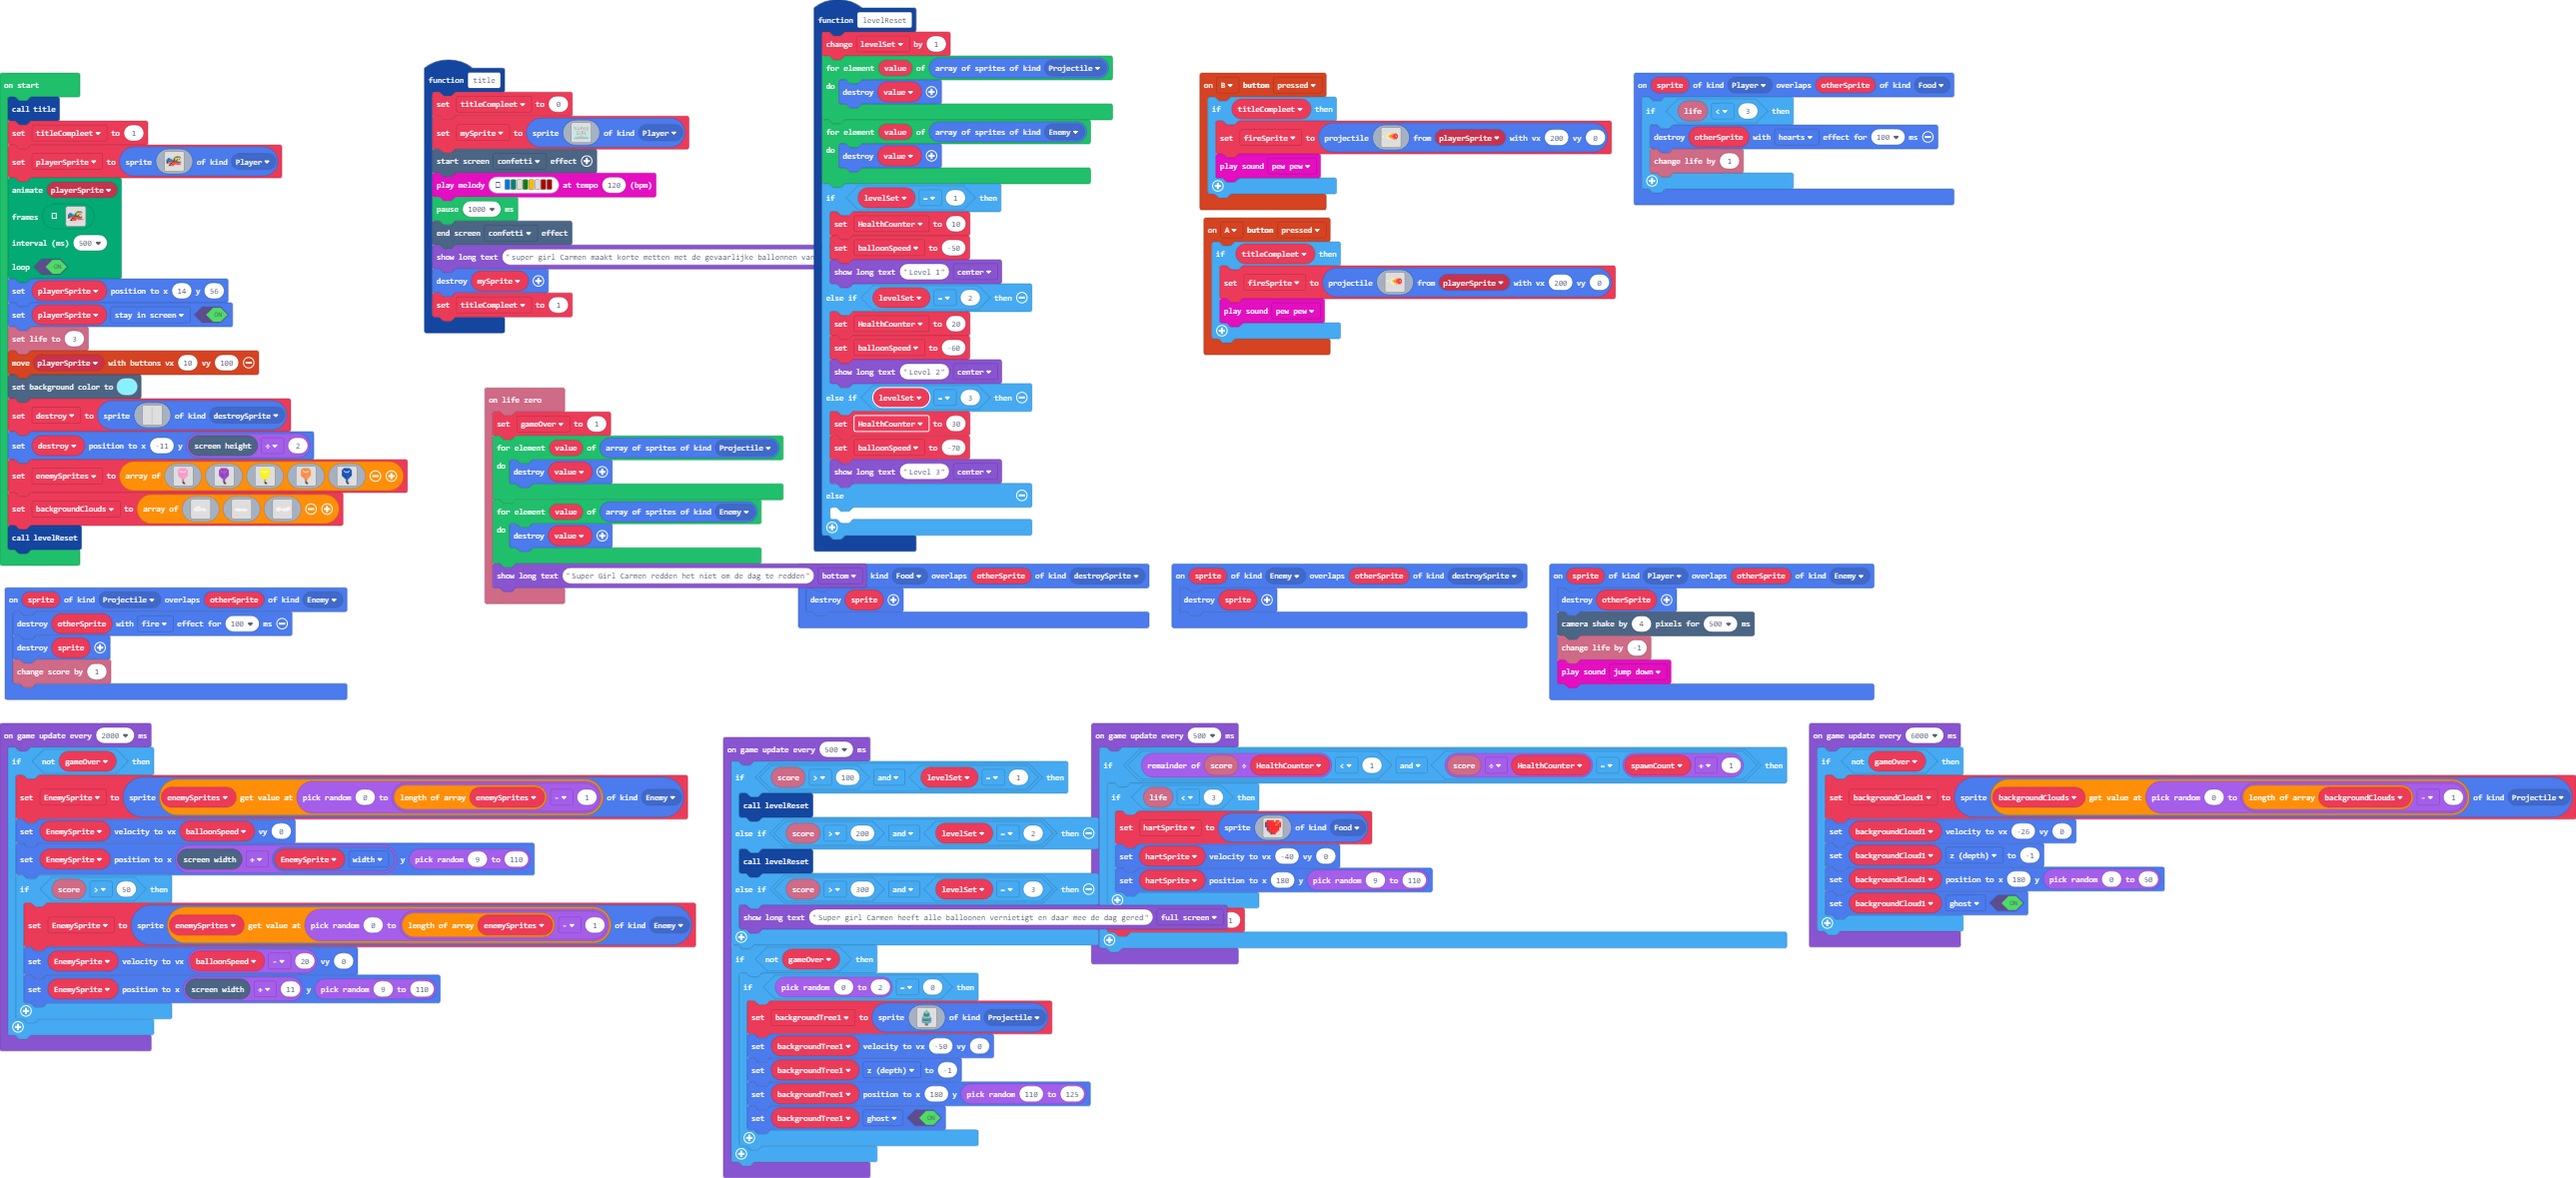
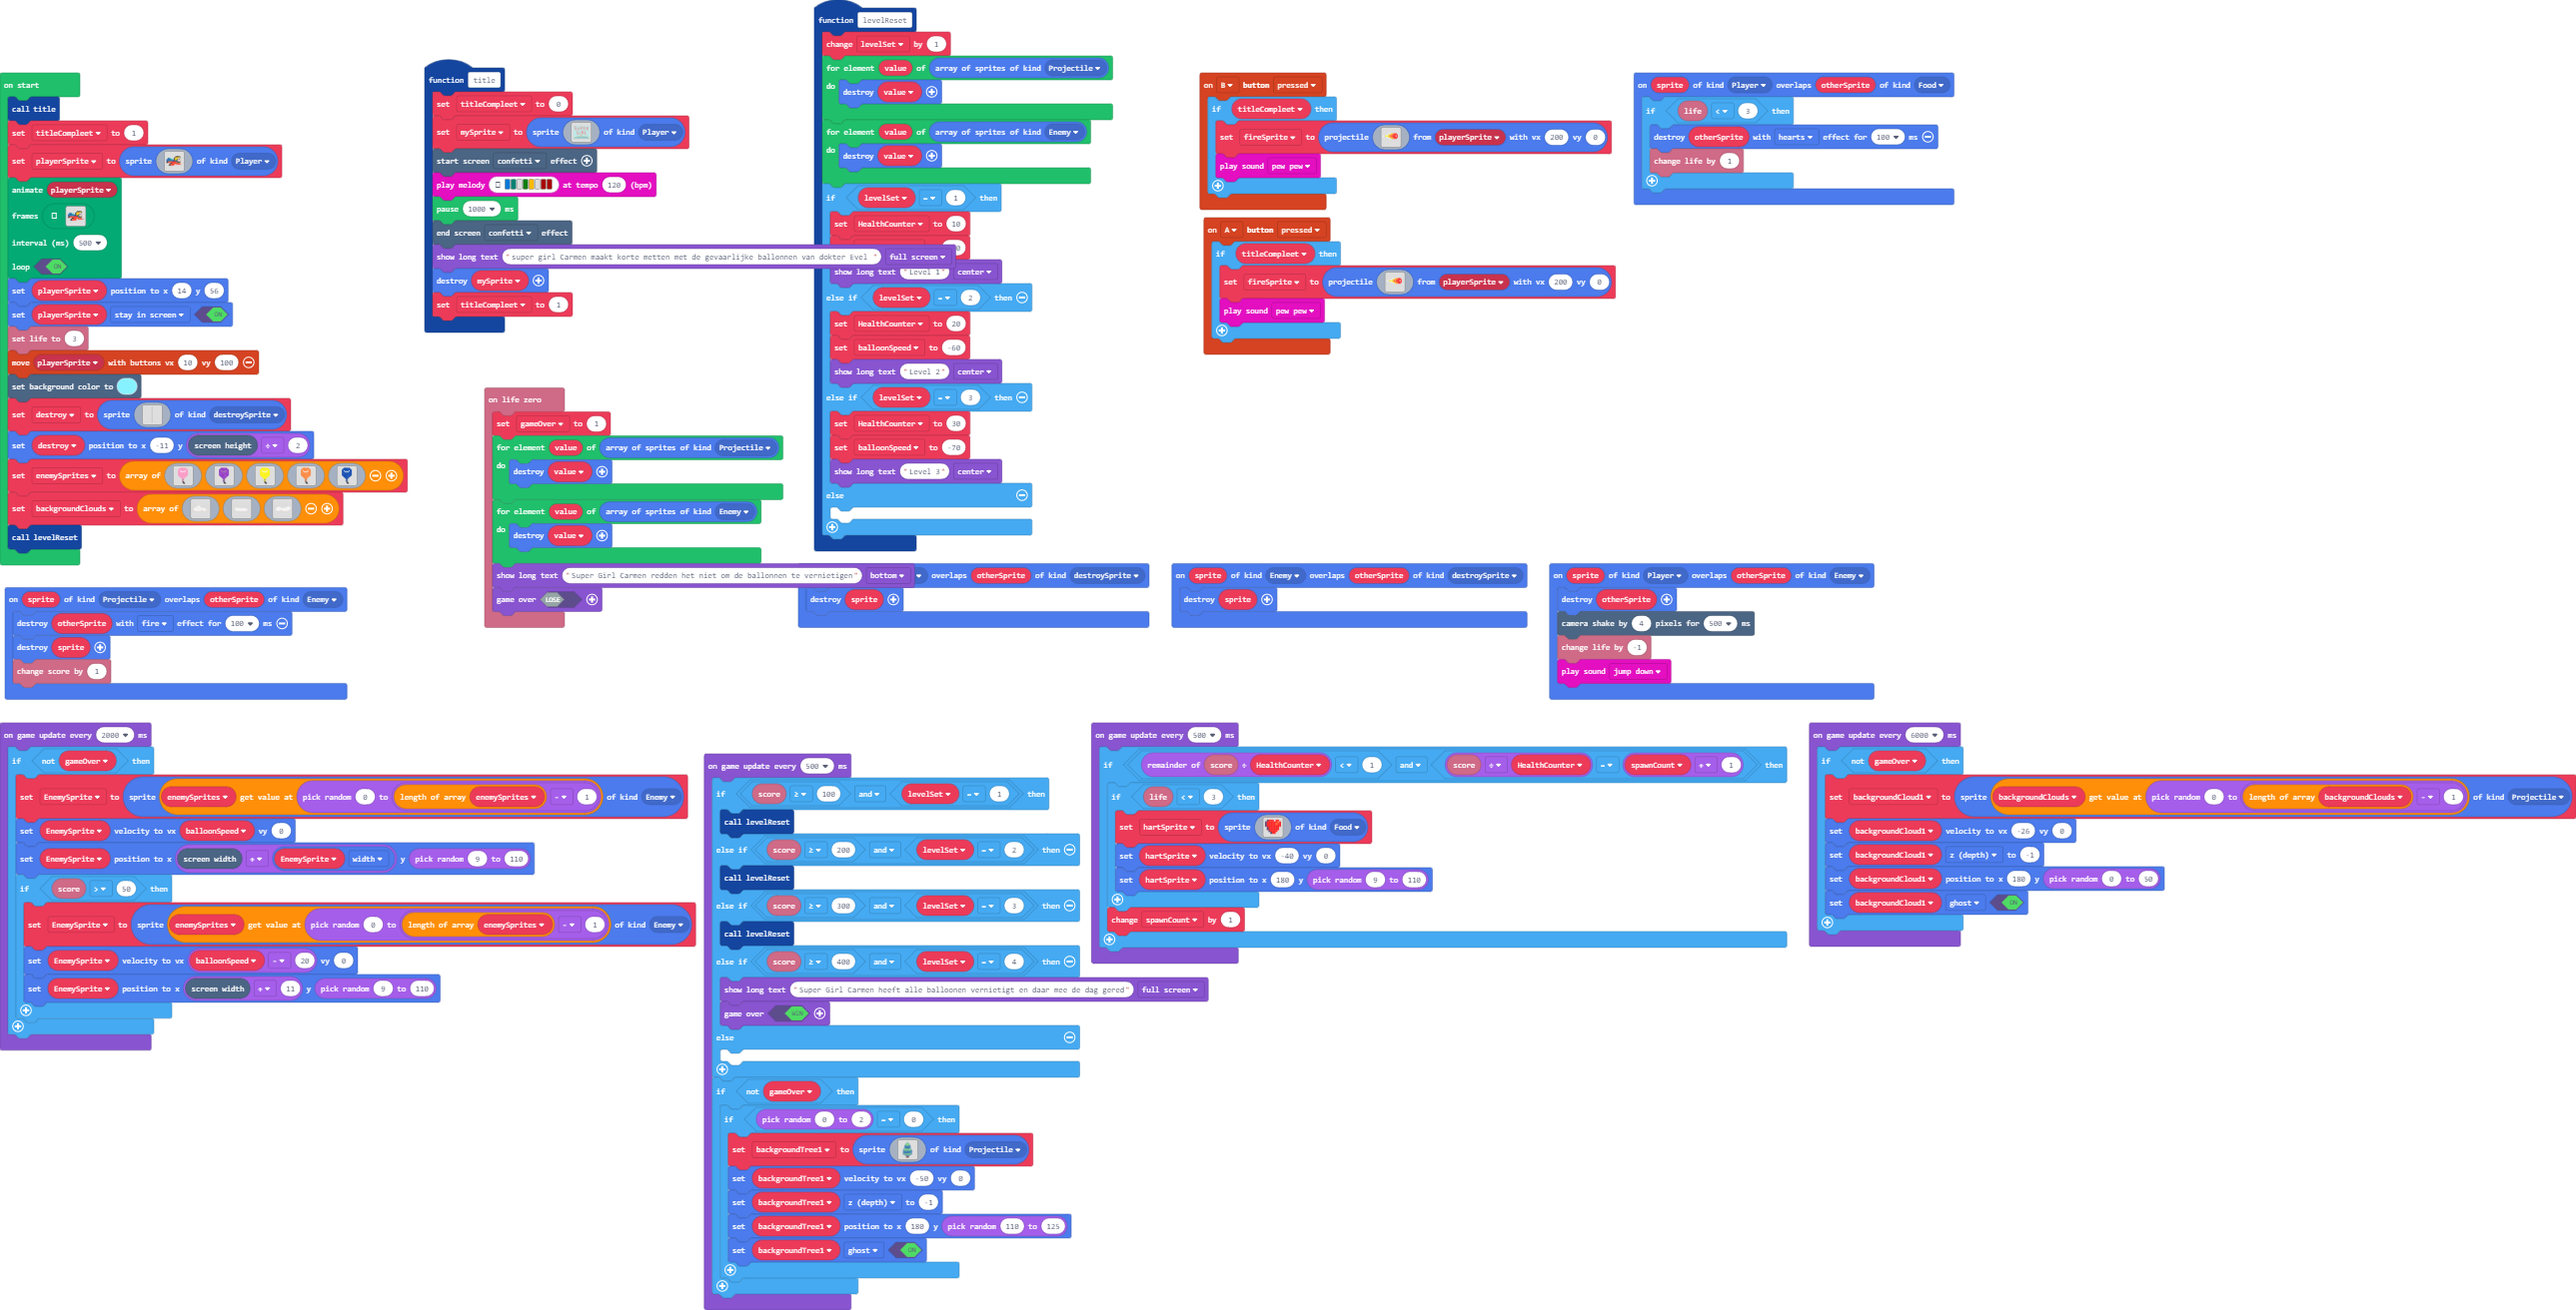
tweak level system

diff --git a/main.ts b/main.ts
@@ -142,30 +142,6 @@ function title () {
     mySprite.destroy()
     titleCompleet = 1
 }
-function levelReset () {
-    levelSet += 1
-    for (let value of sprites.allOfKind(SpriteKind.Projectile)) {
-        value.destroy()
-    }
-    for (let value of sprites.allOfKind(SpriteKind.Enemy)) {
-        value.destroy()
-    }
-    if (levelSet == 1) {
-        HealthCounter = 10
-        balloonSpeed = -50
-        game.showLongText("Level 1", DialogLayout.Center)
-    } else if (levelSet == 2) {
-        HealthCounter = 20
-        balloonSpeed = -60
-        game.showLongText("Level 2", DialogLayout.Center)
-    } else if (levelSet == 3) {
-        HealthCounter = 30
-        balloonSpeed = -70
-        game.showLongText("Level 3", DialogLayout.Center)
-    } else {
-    	
-    }
-}
 controller.B.onEvent(ControllerButtonEvent.Pressed, function () {
     if (titleCompleet) {
         fireSprite = sprites.createProjectileFromSprite(img`
@@ -217,6 +193,30 @@ sprites.onOverlap(SpriteKind.Player, SpriteKind.Enemy, function (sprite, otherSp
     info.changeLifeBy(-1)
     music.jumpDown.play()
 })
+function levelReset () {
+    levelSet += 1
+    for (let value of sprites.allOfKind(SpriteKind.Projectile)) {
+        value.destroy()
+    }
+    for (let value of sprites.allOfKind(SpriteKind.Enemy)) {
+        value.destroy()
+    }
+    if (levelSet == 1) {
+        HealthCounter = 10
+        balloonSpeed = -50
+        game.showLongText("Level 1", DialogLayout.Center)
+    } else if (levelSet == 2) {
+        HealthCounter = 20
+        balloonSpeed = -60
+        game.showLongText("Level 2", DialogLayout.Center)
+    } else if (levelSet == 3) {
+        HealthCounter = 30
+        balloonSpeed = -70
+        game.showLongText("Level 3", DialogLayout.Center)
+    } else {
+    	
+    }
+}
 info.onLifeZero(function () {
     gameOver = 1
     for (let value of sprites.allOfKind(SpriteKind.Projectile)) {
@@ -225,18 +225,19 @@ info.onLifeZero(function () {
     for (let value of sprites.allOfKind(SpriteKind.Enemy)) {
         value.destroy()
     }
-    game.showLongText("Super Girl Carmen redden het niet om de dag te redden", DialogLayout.Bottom)
+    game.showLongText("Super Girl Carmen redden het niet om de ballonnen te vernietigen", DialogLayout.Bottom)
+    game.over(false)
 })
 let backgroundCloud1: Sprite = null
+let backgroundTree1: Sprite = null
 let hartSprite: Sprite = null
 let spawnCount = 0
-let backgroundTree1: Sprite = null
 let EnemySprite: Sprite = null
 let gameOver = 0
-let fireSprite: Sprite = null
 let balloonSpeed = 0
 let HealthCounter = 0
 let levelSet = 0
+let fireSprite: Sprite = null
 let mySprite: Sprite = null
 let playerSprite: Sprite = null
 let titleCompleet = 0
@@ -595,12 +596,36 @@ game.onUpdateInterval(2000, function () {
     }
 })
 game.onUpdateInterval(500, function () {
-    if (info.score() > 100 && levelSet == 1) {
+    if (info.score() % HealthCounter < 1 && info.score() / HealthCounter == spawnCount + 1) {
+        if (info.life() < 3) {
+            hartSprite = sprites.create(img`
+. c 2 2 2 . 2 2 . 
+c 2 2 2 2 2 2 4 2 
+c 2 2 2 2 2 4 2 2 
+c 2 2 2 2 2 2 2 2 
+. c 2 2 2 2 2 2 . 
+. c 2 2 2 2 2 2 . 
+. . c 2 2 2 2 . . 
+. . . c 2 2 . . . 
+`, SpriteKind.Food)
+            hartSprite.setVelocity(-40, 0)
+            hartSprite.setPosition(180, Math.randomRange(9, 110))
+        }
+        spawnCount += 1
+    }
+})
+game.onUpdateInterval(500, function () {
+    if (info.score() >= 100 && levelSet == 1) {
         levelReset()
-    } else if (info.score() > 200 && levelSet == 2) {
+    } else if (info.score() >= 200 && levelSet == 2) {
         levelReset()
-    } else if (info.score() > 300 && levelSet == 3) {
-        game.showLongText("Super girl Carmen heeft alle balloonen vernietigt en daar mee de dag gered", DialogLayout.Full)
+    } else if (info.score() >= 300 && levelSet == 3) {
+        levelReset()
+    } else if (info.score() >= 400 && levelSet == 4) {
+        game.showLongText("Super Girl Carmen heeft alle balloonen vernietigt en daar mee de dag gered", DialogLayout.Full)
+        game.over(true)
+    } else {
+    	
     }
     if (!(gameOver)) {
         if (Math.randomRange(0, 2) == 0) {
@@ -651,25 +676,6 @@ game.onUpdateInterval(500, function () {
             backgroundTree1.setPosition(180, Math.randomRange(110, 125))
             backgroundTree1.setFlag(SpriteFlag.Ghost, true)
         }
-    }
-})
-game.onUpdateInterval(500, function () {
-    if (info.score() % HealthCounter < 1 && info.score() / HealthCounter == spawnCount + 1) {
-        if (info.life() < 3) {
-            hartSprite = sprites.create(img`
-. c 2 2 2 . 2 2 . 
-c 2 2 2 2 2 2 4 2 
-c 2 2 2 2 2 4 2 2 
-c 2 2 2 2 2 2 2 2 
-. c 2 2 2 2 2 2 . 
-. c 2 2 2 2 2 2 . 
-. . c 2 2 2 2 . . 
-. . . c 2 2 . . . 
-`, SpriteKind.Food)
-            hartSprite.setVelocity(-40, 0)
-            hartSprite.setPosition(180, Math.randomRange(9, 110))
-        }
-        spawnCount += 1
     }
 })
 game.onUpdateInterval(6000, function () {
